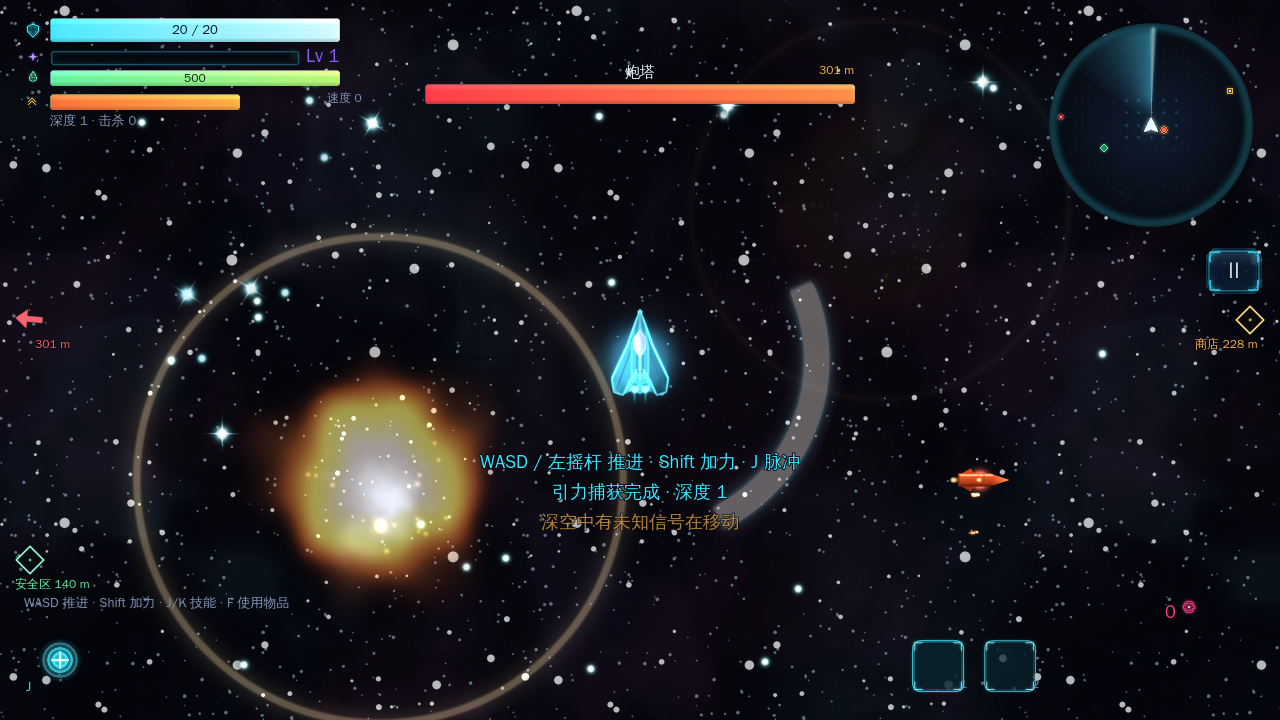
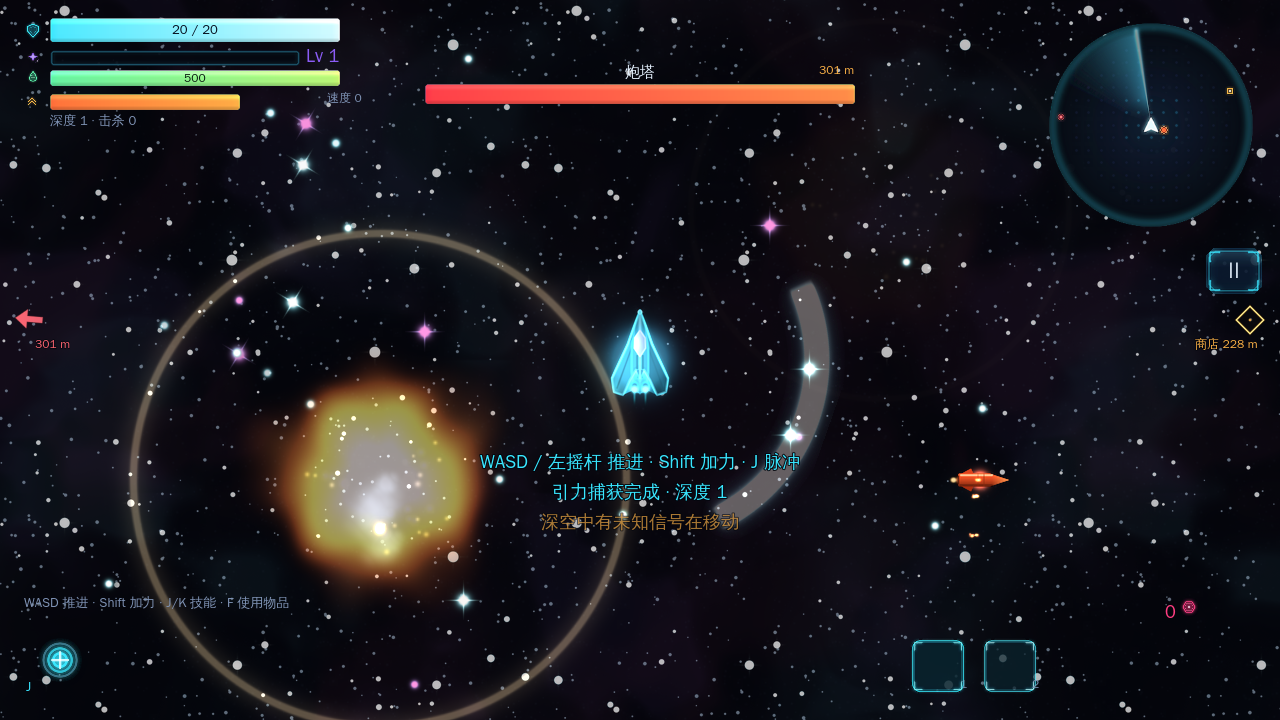
docs(1.0.6): 验证记录、截图与 OpenList 直链

diff --git a/README.md b/README.md
@@ -1,4 +1,4 @@
-# Escape Gravity · 1.0.5 发行版
+# Escape Gravity · 1.0.6 发行版
 
 > 2D 俯视角 · 物理驱动 · 无直接攻击的太空肉鸽
 >
@@ -14,6 +14,14 @@
 - 中文字体：WenQuanYi Zen Hei（随包分发，见许可）
 
 > **仓库状态**：本目录为本地 Git 仓库（`main`，未配置 remote，暂未发布）。`build/`、`dist/`、`keystore/` 与 `.godot/` 不入库；维护、构建与提交约定见 [`AGENTS.md`](AGENTS.md)。
+
+### 1.0.6 更新
+
+- **出生区改为敌对区**：开局不再在出生点旁放安全区，首个攻击者仍在 1900~2400px 的路线首段；击毁首个攻击者后才解锁补给，并跳过出生侧的安全区节点，下一个安全区出现在前进方向。
+- **物质可能被甩飞**：约 16% 的小物质 / 24% 的大物质是“不安定物质”（洋红发光）。玩家进入 190px 吸取圈时，它们会以 520 速度被甩开而不是被吸收，甩飞期间不可拾取，2.4 秒冷却后才能再次尝试。
+- **商店绑定敌人**：每个商店记录创建时的敌人深度。如果玩家没有使用它、并连续击毁该敌人和下一个敌人，旧信标会消失，并在下一个路线商店点自动重新生成，不会永远落在身后。
+- **安全区可能出现引力异常**：约 24% 的安全区是直接以完整 R280 出现的品红色异常区。外圈不再向心牵引，而是把飞船推离；进入圈内会被至少 520 的速度甩飞，且不补燃料、不清导弹、不隐藏威胁。HUD 雷达点同样变为品红色。
+- **空白路径可能生成加速天体**：路线每段仍保证一个天体锚点；其中约 42% 的段会尝试把较小的天体（R140~180）直接放进两个敌人之间的空白路径（横向 ≤160），用于切线环绕加速。若与安全区/商店/敌人/已生成路线天体冲突，则回退到原来的侧方锚点。
 
 ### 1.0.5 更新
 
@@ -57,24 +65,24 @@
 
 | 文件 | 平台 | 大小 | SHA-256 |
 |---|---|---|---|
-| `dist/EscapeGravity-1.0.5-windows-x86_64.zip` | Windows 10/11 x64 | 57.4 MiB | `f7e9d666…ef357f4` |
-| `dist/EscapeGravity-1.0.5-android-arm64.apk` | Android 7.0+ arm64 | 47.3 MiB | `0cc82151…75d1d9` |
-| `dist/EscapeGravity-1.0.5-linux-x86_64.tar.gz` | Linux x64（附带） | 48.1 MiB | `9941b32f…5e8fc6` |
-| `build/windows/EscapeGravity.exe` | 未压缩的 Windows 单文件 | 125.9 MiB | `a59c5154…c91ef5` |
-| `build/android/EscapeGravity.apk` | 未重命名的 Android 包 | 47.3 MiB | `0cc82151…75d1d9` |
+| `dist/EscapeGravity-1.0.6-windows-x86_64.zip` | Windows 10/11 x64 | 57.4 MiB | `699a75bb…c4ba5e8a` |
+| `dist/EscapeGravity-1.0.6-android-arm64.apk` | Android 7.0+ arm64 | 47.3 MiB | `9bf6c6e4…c4ae8a7b` |
+| `dist/EscapeGravity-1.0.6-linux-x86_64.tar.gz` | Linux x64（附带） | 48.2 MiB | `8324d5ef…3988325c` |
+| `build/windows/EscapeGravity.exe` | 未压缩的 Windows 单文件 | 125.9 MiB | `336077a9…6f9563d1` |
+| `build/android/EscapeGravity.apk` | 未重命名的 Android 包 | 47.3 MiB | `9bf6c6e4…c4ae8a7b` |
 | `docs/shots/*.png` | 由**导出包**实际运行的截图 | — | — |
 
 完整校验和：`dist/SHA256SUMS.txt`。
 
-- Android 1.0.5 直链：[EscapeGravity-1.0.5-android-arm64.apk](https://files.thisisxd.top/d/EscapeGravity-1.0.5-android-arm64.apk)
+- Android 1.0.6 直链：[EscapeGravity-1.0.6-android-arm64.apk](https://files.thisisxd.top/d/EscapeGravity-1.0.6-android-arm64.apk)
 
-> 下表是本次 1.0.5 重新构建的交付包，`build/` 与 `dist/` 均来自同一次构建。
+> 下表是本次 1.0.6 重新构建的交付包，`build/` 与 `dist/` 均来自同一次构建。
 
 Windows 包为单文件 exe（内嵌 PCK），解压即玩，无需安装。Android 包已用项目自带密钥签名（v2/v3），可直接侧载安装。
 
 本版不再提供 Web 试玩包；正式交付为 Windows / Android 原生构建。
 
-- Android 包名：`com.escapegravity.game`，versionCode 6，versionName 1.0.5
+- Android 包名：`com.escapegravity.game`，versionCode 7，versionName 1.0.6
 - minSdk 24 / targetSdk 36（Godot 4.7 模板），仅 arm64-v8a
 - Windows 构建未做商业代码签名：首次运行可能出现 SmartScreen 提示，选择“仍要运行”即可
 
@@ -105,8 +113,8 @@ Windows 包为单文件 exe（内嵌 PCK），解压即玩，无需安装。Andr
 1. 星域里潜伏着一台比屏幕还大的**炮塔**。它在进入你的屏幕前不会显示位置，也不会出现在雷达上；你靠近后它开始逼近，同时从屏幕外发射绕弧切入的导弹——导弹的射入方向通常偏向它所在的一侧。导弹锁定你 **5 秒**后脱锁，之后只能直线飞行，而且从出膛到自毁都持续受天体引力影响。
 2. 你打不到炮塔。唯一能伤到它的，是**它自己的导弹**：贴着炮塔绕圈，让导弹的转弯弧线切进外壳；或者用脉冲把导弹沿切线甩进外壳。
 3. 导弹撞上炮塔：**25 点伤害** + 炮塔过载停火 2.5 秒；炮塔血量 50，两发即可摧毁。
-4. 炮塔爆炸后掉落大量**物质**，自动吸收并填经验槽。每 **20 XP** 升一级，三选一强化。
-5. 燃料有限。**安全区**会补满燃料、清除导弹与陨石、屏蔽雷达与威胁指示；它刷新时只是一个比飞船略大的小环，飞到中心才扩张成完整的补给圈。**商店**用代币换道具。地图生成时会沿一条隐藏路线预置它们的位置：安全区在两个敌人之间，商店离路线更远；路线本身不显示给玩家。
+4. 炮塔爆炸后掉落大量**物质**，自动吸收并填经验槽。每 **20 XP** 升一级，三选一强化。部分物质是**不安定物质**（洋红发光）：靠近时会被甩飞而不是吸收，要追上去才能拿到。
+5. 燃料有限，而且**出生点附近没有安全区**——先击毁首个攻击者才会解锁补给。**安全区**会补满燃料、清除导弹与陨石、屏蔽雷达与威胁指示；它刷新时只是一个比飞船略大的小环，飞到中心才扩张成完整的补给圈。少数安全区是**引力异常**：外圈会把你推开，进入圈内会被直接甩飞，而且不补燃料。**商店**用代币换道具；如果跳过商店并连续击毁两个敌人，信标会自动重新定位。地图生成时会沿一条隐藏路线预置它们的位置：安全区在两个敌人之间，商店离路线更远；路线本身不显示给玩家。两个敌人之间的空白路径有时会生成一颗小**加速天体**，可以借它做切线环绕。
 6. 摧毁一个攻击者后进入 **8 秒安全时间**，随后按路线顺序刷新更强的敌人；深度递增。
 
 护盾只有 **20**，而敌方导弹伤害是 **25**：**挨一发就结束**。陨石只磨损 0.5，但你可以把陨石撞飞，让它对敌人造成 5 点伤害。
@@ -152,12 +160,15 @@ Windows 包为单文件 exe（内嵌 PCK），解压即玩，无需安装。Andr
 | 导弹撞敌人：25 伤害 + 过载 2.5s + 停火 | `run.damage_enemy` / `enemy.take_hit` |
 | 导弹入场：视野外垂直进入；视野内从敌人外壳炮口发射 | `enemy._fire_one`；视野内炮塔选最近的三个炮口之一、巢用前向口；视野外保持 820px 侧向进入 |
 | 陨石：10s/颗、R17、110~210 速度、镜头外 900 进入、方向避开炮塔、受天体与飞船引力、0.5 伤害、撞飞后对敌人 5 伤害 | `src/meteor.gd` + `run`；撞飞船不会立刻消失，可继续飞行撞敌人 |
-| 物质：200/星域、吸取 190、小 1 XP / 大 3 XP、每 20 XP 升级 | `src/matter.gd`；初始与补充刷在未探索区，总数上限 280 |
+| 物质：200/星域、吸取 190、小 1 XP / 大 3 XP、每 20 XP 升级；16%/24% 为不安定物质，靠近会被甩飞 | `src/matter.gd`；初始与补充刷在未探索区，总数上限 280；甩飞 0.9s、冷却 2.4s，甩飞期间不可拾取 |
 | 护盾 20 / 敌方导弹 25；陨石 0.5 | `src/ship.gd` + `run.hurt_ship` |
-| 安全区：进入前 R78 → 进入时扩张到 R280、46 px/s² 向心引力、回满燃料/清导弹/清陨石/隐藏雷达与威胁指示、离开后 10s 刷新 | `src/zone.gd` + `run._zone_checks`；进入瞬间触发半径即为 280，扩张动画只影响外观；间距/引力/燃料判定用 `clearance_radius()`；高速进站由辅助装置以 1400 px/s² 刹停，圈内抵消天体引力 |
+| 出生区：没有安全区，首个攻击者就在路线首段；击毁首个攻击者后解锁补给 | `run._initial_spawn` / `_unlock_safe_after_first_kill`；解锁时跳过出生侧的安全区节点，`route.next_safe=1` |
+| 安全区：进入前 R78 → 进入时扩张到 R280、46 px/s² 向心引力、回满燃料/清导弹/清陨石/隐藏雷达与威胁指示、离开后 10s 刷新 | `src/zone.gd` + `run._zone_checks`；进入瞬间触发半径即为 280，扩张动画只影响外观；间距/引力/燃料判定用 `clearance_radius()`；高速进站由辅助装置以 1400 px/s² 刹停，稳定圈内抵消天体引力 |
+| 安全区引力异常：24% 概率、品红视觉、外圈推离、进圈被甩飞、不补燃料/不清弹/不隐藏威胁 | `Zone.unstable` + `run.assist_accel` / `_spring_safe_trap`；雷达点同步变品红；`_check_fuel` 只认稳定安全区 |
 | 安全区刷新在路线预置点 | `RunRoute.safe_at`：每个敌人之间一个；找不到路线时回退 `find_unexplored_point(700, 1875)` |
-| 商店：R280、不回燃料、代币交易 | `run._open_shop` / `buy_offer`；3 件商品，价格按稀有度；位置取路线预置点，离路线比安全区更远 |
-| 燃料耗尽：仍可惯性/引力移动；屏幕内有安全区则被吸入；否则 12s 后结束 | `run._check_fuel` + `assist_accel` |
+| 商店：R280、不回燃料、代币交易；绑定创建时的敌人深度 | `run._open_shop` / `buy_offer`；3 件商品，价格按稀有度；位置取路线预置点，离路线比安全区更远 |
+| 商店自动重定位 | 跳过商店并连续击毁所属敌人和下一个敌人（`depth > shop_bound_depth+1`）时，`_maybe_refresh_shop` 在下一个路线商店点重新生成 |
+| 燃料耗尽：仍可惯性/引力移动；屏幕内有**稳定**安全区则被吸入；否则 12s 后结束 | `run._check_fuel` + `assist_accel`；引力异常不提供燃料保护 |
 | 操作辅助装置：绕天体切线加速、商店/安全区停靠、燃料 0.4/s、不改变朝向 | `run.assist_accel`；环绕加速在 600 速度处淡出，安全区反推上限 1400 px/s² |
 | 碰撞：玩家不能进入天体/敌人、被弹飞、按速度 3~7 护盾磨损 | `ship.bounce_from` + `run`；0.35s 受击无敌帧避免连续扣血 |
 | 物品栏：基础 2、最多 5、满了要销毁一件 | `run.add_item` / `destroy_and_take` + HUD 销毁面板 |
@@ -168,7 +179,7 @@ Windows 包为单文件 exe（内嵌 PCK），解压即玩，无需安装。Andr
 | 敌人血条顶部中间；发现后显示（含视野外距离）；方位箭头贴屏幕边（20px） | `ui`：血条、方位箭头、距离 |
 | 菜单 / 暂停 / 设置 / 玩法说明 / 结算 | `src/menu.gd` + `src/ui.gd` |
 | 无限地图、程序化星系数、行星不是孤立生成 | `src/galaxy.gd`：7800px 星系统 + 2048px 区块，避免重叠，区块流式加载 |
-| 地图生成：星系 → 物质 → 隐藏路线 → 商店/安全区/敌人 | `src/route.gd` 预生成路线与节点；`galaxy._generate_chunk` 在每段路线旁补天体；路线不创建任何可见节点 |
+| 地图生成：星系 → 物质 → 隐藏路线 → 商店/安全区/敌人 | `src/route.gd` 预生成路线与节点；`galaxy._generate_chunk` 为该区块的路线段补天体；42% 的段尝试把天体放进两个敌人之间的空白路径（R140~180、横向 ≤160），冲突时回退侧方锚点；路线不创建任何可见节点 |
 | 敌人按路线顺序刷新、被击败后显示安全倒计时再刷新 | `RunRoute.enemy_at` + `run.safe_timer`；两个敌人位置之间必有安全区 |
 | UI 布局：左上护盾/经验/燃料、右上雷达、顶部中敌人血条、右下物品栏、左下技能 | 与概念图一致；含移动端重排 |
 
@@ -183,6 +194,8 @@ Windows 包为单文件 exe（内嵌 PCK），解压即玩，无需安装。Andr
 | 引力影响半径 | 3.0 × R | 过载时长 | 2.5s |
 | 陨石间隔 / 伤害 / 半径 | 10s / 0.5 / 17 | 炮塔移动（外/内） | 240 / 18 |
 | 吸取半径 / XP | 190 / 20 每级 | 安全区（进入前→扩张）/ 牵引 | 78 → 280 / 46 |
+| 不安定物质概率 / 甩飞 / 冷却 | 16%（大 24%）/ 520 · 0.9s / 2.4s | 引力异常安全区 / 甩飞 | 24% / 520 · 10s 重排 |
+| 商店绑定 / 自动重定位 | 创建时深度 / 跨过所属敌人 +1 | 空白路径天体 | 42% · R140~180 · 横向 ≤160 |
 | 脉冲：冷却 / 燃料 / 半径 / 冲量 / 偏转 | 5s / 10 / 300 / 200 / ±15° | 巢：半径 / 血量 / 齐射 | 300 / 40 / 3 |
 
 ---
@@ -231,7 +244,7 @@ escape-gravity-release/
 │   ├── meteor.gd / matter.gd / zone.gd / decoy.gd / anchor.gd / fx.gd
 │   ├── assets.gd / audio.gd / store.gd / controls.gd
 │   ├── backdrop.gd           # 视差星云/星点
-│   └── selftest.gd           # 125 项无头断言 + 机器人可玩性验证
+│   └── selftest.gd           # 141 项无头断言 + 机器人可玩性验证
 ├── assets/                   # world / ui / audio / fonts
 ├── tools/                    # 素材生成、后期、构建、打包
 ├── docs/                     # ART.md / DESIGN_MAP.md / QA.md / 资产清单 / 截图
@@ -251,18 +264,18 @@ escape-gravity-release/
 
 ## 5. 验证
 
-### 5.1 无头断言（125/125 通过）
+### 5.1 无头断言（141/141 通过）
 
 ```bash
 godot --headless --path . -- --selftest
-# RESULT: 125 checks, 0 failed
+# RESULT: 141 checks, 0 failed
 ```
 
 覆盖：太空无阻力与惯性保持 / 引擎极速 150、加力 3× 与 192、外部上限 720 / 燃料按实际 Δv（滑行免费，到极速后按住推进不耗油）/ 加力槽 6.6s 与推进中回充 / 引力 285·395·3R 截止 /
 辅助装置平衡恒星引力 / 锁定中的导弹仍受引力弯折 /
-导弹 150·0.525·5s 脱锁 / 命中 25 与过载 / 陨石 0.5 与撞飞 5 / 物质 190 与 1·3 XP / 20 XP 升级 /
-安全区 78→280 扩张·补满·清弹·隐藏·10s 刷新 / 商店 3 件且不回燃料 / 物品栏 2→5 与满栏销毁 / 脉冲 10 燃料·200 冲量·5s CD·按移动方向左右偏转 /
-诱饵抵达脱锁 / 干扰弹偏转 / 燃料 12s 判负 / 复活币 / 路线不回头·商店更远·每段有天体·两个敌人间有安全区·安全区离敌人≥1150 /
+导弹 150·0.525·5s 脱锁 / 命中 25 与过载 / 陨石 0.5 与撞飞 5 / 物质 190 与 1·3 XP / 不安定物质甩飞与冷却 / 20 XP 升级 /
+安全区 78→280 扩张·补满·清弹·隐藏·10s 刷新 / 引力异常推离·甩飞·不提供燃料保护 / 商店 3 件且不回燃料·跳过两级后自动重定位 / 出生区无安全区·首杀解锁并跳过出生侧节点 / 物品栏 2→5 与满栏销毁 / 脉冲 10 燃料·200 冲量·5s CD·按移动方向左右偏转 /
+诱饵抵达脱锁 / 干扰弹偏转 / 燃料 12s 判负 / 复活币 / 路线不回头·商店更远·每段有天体·两个敌人间有安全区·安全区离敌人≥1150 / 空白路径加速天体数量与间距 /
 敌人未发现时不可见、仇恨范围外不开火、靠近后逼近 / 未发现时仍开火且导弹从屏幕外弧线切入·方向偏向敌人·单独上限 2 / 进屏即发现并淡入 /
 起始区域按路线落位 / 敌人按路线顺序刷新 / 120000px 外仍有天体 / 初始燃料 500。
 
@@ -281,11 +294,11 @@ godot --headless --path . -- --selftest
 
 ### 5.3 导出包验证
 
-> 本次 1.0.5 重新导出了 Linux / Windows / Android 包并重打了 `dist/`，下方验证均针对这批产物。
+> 本次 1.0.6 重新导出了 Linux / Windows / Android 包并重打了 `dist/`，下方验证均针对这批产物。
 
 - Linux 导出包在 `Xvfb + llvmpipe` 下真实运行并重新生成全部 11 张截图（不是编辑器截图），中文字体、脚本、贴图、音频均从 PCK 加载。
 - Windows 产物：`PE32+ executable (GUI), x86-64`，尾部 `GDPC` 内嵌包标记，单文件无外部依赖。
-- Android：`apksigner verify` 通过（v2 + v3 签名）；`aapt2 dump badging` 显示 `com.escapegravity.game`、1.0.5（versionCode 6）、
+- Android：`apksigner verify` 通过（v2 + v3 签名）；`aapt2 dump badging` 显示 `com.escapegravity.game`、1.0.6（versionCode 7）、
   minSdk 24、targetSdk 36、`native-code: arm64-v8a`、landscape、无危险权限；APK 内含全部贴图/字体/音频/脚本。
 
 ### 5.4 界面
@@ -318,6 +331,7 @@ godot --headless --path . -- --selftest
 9. **美术/音频为占位素材**：这是你要求的“先用几何图形”；但已按可替换资产管线实现，后续换图不需要改逻辑。
 10. **Android 仅 arm64**，且没有真机实测（本机无 Android 设备；APK 已做静态与签名验证，Linux 导出包做了真实运行验证）。
 11. 安全区/商店刷新距离、商店重开时间（26s）等文档未给定的细节由本实现确定，见 `DESIGN_MAP.md`。
+12. 1.0.6 的随机危险是发行版扩展：不安定物质（16%/24%）、引力异常安全区（24%）、空白路径加速天体（42% 尝试）与商店随战线重定位；数值集中在 `src/consts.gd` / `src/route.gd`，并有不变量与自测覆盖。
 
 ---
 

diff --git a/docs/DESIGN_MAP.md b/docs/DESIGN_MAP.md
@@ -13,7 +13,7 @@
 | 进入区域 → 攻击者出现 → 追踪导弹 → 诱导撞击 → 过载 → 掉落物质 | `spawn_enemy` → `enemy.step` → `missile.step` → `_resolve_collisions` → `damage_enemy` → `kill_enemy` → `scatter_matter_at` |
 | 逐步深入更高威胁星域 | `depth += 1`（每次摧毁攻击者）；血量 `×(1+0.22(depth-1))`、射速 `×max(0.62, 1-0.035(depth-1))`、速度 `×(1+0.02(depth-1))`；每 5 层精英 ×1.6 |
 
-攻击者出生点来自隐藏路线：首个敌人在 1900~2400，之后每段 2100~2700；未被玩家看见前它是隐形的，不显示贴图、不进雷达/方位/血条；玩家进入 2100px 后它以 1.5× 速度逼近，外壳进入屏幕的同一帧才算 `discovered`。未发现的敌人仍会开火：导弹在屏幕边缘外 180~320px 生成，以切线初速绕弧切入，射入方向 72% 落在敌人方位 ±57° 内，其余全随机；这类偷袭弹单独上限 2 枚，不占正常 3 枚直射名额。安全区、商店与敌人都按同一条路线预生成，因此 HUD 方位标记天然沿行进方向排列；路线本身不渲染。安全区预置在相邻两段敌人的中点（首段落在路线前段），横向偏移 470~600px，圆心离两侧敌人预置点 ≥1150px，保证安全区完整半径（280）与炮塔外壳（420）之间至少 450px；安全区出生时贴图只有 R78，玩家到中心才扩张，但间距校验始终使用 `clearance_radius()`（完整 280），刷新时还会按 520px 的贴图间距避开正在交战的敌人。
+攻击者出生点来自隐藏路线：首个敌人在 1900~2400，之后每段 2100~2700；未被玩家看见前它是隐形的，不显示贴图、不进雷达/方位/血条；玩家进入 2100px 后它以 1.5× 速度逼近，外壳进入屏幕的同一帧才算 `discovered`。未发现的敌人仍会开火：导弹在屏幕边缘外 180~320px 生成，以切线初速绕弧切入，射入方向 72% 落在敌人方位 ±57° 内，其余全随机；这类偷袭弹单独上限 2 枚，不占正常 3 枚直射名额。安全区、商店与敌人都按同一条路线预生成，因此 HUD 方位标记天然沿行进方向排列；路线本身不渲染。**出生点没有安全区**：开局只有敌人，击毁首个攻击者后 `safe_unlocked` 才变为 true，并跳过出生侧的安全区节点；路线每段仍保证一个天体锚点，其中一部分会直接落在两个敌人之间的空白路径上。安全区预置在相邻两段敌人的中点（首段落在路线前段），横向偏移 470~600px，圆心离两侧敌人预置点 ≥1150px，保证安全区完整半径（280）与炮塔外壳（420）之间至少 450px；稳定安全区出生时贴图只有 R78，玩家到中心才扩张；引力异常则直接以完整 R280 的品红圈出现（详见 §8）。间距校验始终使用 `clearance_radius()`（完整 280），刷新时还会按 520px 的贴图间距避开正在交战的敌人。
 
 ## 2. 操作与物理
 
@@ -66,6 +66,7 @@
 |---|---|---|
 | 每星域物质 | 200 | 初始 150（按簇分布）+ 每 2s 检查飞船周边 3400px 内数量，不足 130 时在 350~3000px 补 30，上限 280；摧毁敌人额外 42 |
 | 吸取半径 | 190 | `run.absorb_radius=190`；距离越近吸力越强，24px 内拾取 |
+| 不安定物质 | 文档未给；扩展 | `MATTER_VOLATILE_CHANCE=0.16`（大物质 0.24）的标记为 `volatile`；进入 190 圈时不再被吸，而是以 520 速度甩开 0.9s、冷却 2.4s，甩飞期间不可拾取；视觉洋红发光，首次触发有提示 |
 | XP | 小 1 / 大 3 | `MATTER_SMALL_XP/ BIG_XP`；大物质概率 1/3 |
 | 升级曲线 | 固定每 20 XP | `XP_PER_LEVEL=20`；可连续升级，逐次弹卡 |
 | 升级池 | 修复 25%/100%、燃料 25%、上限 +10/+20、物品栏、代币 1/2/3、加力槽 +10%、加力推力 +7%、获得道具、技能 | `Defs.roll_upgrades` 带权抽取，按条件剔除（如 5 格后不再出物品栏卡、技能满后不再出新技能） |
@@ -96,19 +97,22 @@
 
 | 项 | 文档 | 实现 |
 |---|---|---|
-| 安全区半径/牵引 | 280 / 46 px/s² | `zone.gd`：出生时触发半径 `ZONE_ENTRY_RADIUS=78`（只比飞船略大），玩家到中心时 `set_entered` 同一帧把 `radius` 设为 280，并用 0.62s 的 BACK 缓动 + 冲击波贴图播放扩张；无输入时向心牵引（不再限燃料 0）；进入后 `gravity_ship_at` 返回零，避免 3R 天体引力把握停的飞船拖出去 |
+| 安全区半径/牵引 | 280 / 46 px/s² | `zone.gd`：出生时触发半径 `ZONE_ENTRY_RADIUS=78`（只比飞船略大），玩家到中心时 `set_entered` 同一帧把 `radius` 设为 280，并用 0.62s 的 BACK 缓动 + 冲击波贴图播放扩张；无输入时向心牵引（不再限燃料 0）；**稳定**安全区内 `gravity_ship_at` 返回零，避免 3R 天体引力把握停的飞船拖出去 |
+| 出生区 | 文档未给；扩展 | `_initial_spawn` 不生成安全区，`safe_unlocked=false`；击毁首个攻击者后 `_unlock_safe_after_first_kill` 解锁并把 `route.next_safe=1`，跳过出生侧节点 |
+| 安全区引力异常 | 文档未给；扩展 | `ZONE_UNSTABLE_CHANCE=0.24`；`Zone.unstable=true` 时直接以完整 R280 出现，贴图/雷达点变品红，外圈 `assist_accel` 以 300 推离，进入圈内 `_spring_safe_trap` 以 ≥520 速度甩飞；不补燃料、不清导弹、不隐藏威胁；`_check_fuel` 不把它当安全区 |
 | 进入 | 圈 → 展开、回满燃料、导弹/陨石消失、敌人停火退出、屏蔽信息 | `_enter_safe`；扩张瞬间即视为进入，玩家不会在动画期间飞出去；敌人间距与燃料判定用 `clearance_radius()`（完整 280） |
 | 离开 | 消失，10s 后刷新下一个 | `_leave_safe`；`safe_respawn_timer=10` |
 | 刷新位置 | 路线预置点；每个敌人之间一个；刷新带 ≈1875px（约 12.5s 满推力预算） | `RunRoute.safe_at`（首段 0.35、之后 0.50；侧偏 470~600px）；路线缺失时才回退 `find_unexplored_point(700,1875)` |
-| 商店 | R280、不回燃料、代币交易；离路线比安全区更远 | `RunRoute.shop_at`（段内 0.72、侧偏 1200~1600px）；3 件商品，按稀有度 2~5 代币；离开后 26s 刷新 |
-| 燃料耗尽 | 仍可惯性/引力；屏幕内有安全区被吸入；否则结束 | `_check_fuel`：无安全区在屏内且无燃料道具时 12s 结束；`assist_accel` 把无动力飞船拉向安全区 |
+| 商店 | R280、不回燃料、代币交易；离路线比安全区更远 | `RunRoute.shop_at`（段内 0.72、侧偏 1200~1600px）；3 件商品，按稀有度 2~5 代币；离开后 26s 刷新；创建时记录 `shop_bound_depth` |
+| 商店自动重定位 | 文档未给；扩展 | 如果未使用商店且 `depth > shop_bound_depth + 1`（击毁所属敌人和下一个敌人），`_maybe_refresh_shop` 移除旧信标并在下一个路线商店点重新生成 |
+| 燃料耗尽 | 仍可惯性/引力；屏幕内有**稳定**安全区被吸入；否则结束 | `_check_fuel`：无稳定安全区在屏内且无燃料道具时 12s 结束；`assist_accel` 把无动力飞船拉向稳定安全区；异常区不提供保护 |
 
 ## 9. 操作辅助装置
 
 | 文档 | 实现 |
 |---|---|
 | 引导不撞天体（不含导弹/陨石）；进入绕天体匀速圆周；玩家有远离输入立即退出 | `run.assist_accel`：距表面 <320 且内向速度 >45、且输入不朝外时，施加切向 `SHIP_ORBIT_ACCEL=230 × (1-speed/600)`；不改变 facing；离开引力圈后速度保留 |
-| 引导在商店/安全区停靠 | 在安全区内自动反推，上限 `SHIP_SAFE_BRAKE=1400 px/s²`，600~720 速度进入也能停在 R280 内；只有推进方向明确指向圈外时才放手；进圈后抵消天体引力 |
+| 引导在商店/安全区停靠 | 在**稳定**安全区内自动反推，上限 `SHIP_SAFE_BRAKE=1400 px/s²`，600~720 速度进入也能停在 R280 内；只有推进方向明确指向圈外时才放手；进圈后抵消天体引力。引力异常安全区相反：外圈 `ZONE_UNSTABLE_PUSH=300` 推离，越靠近越强 |
 | 不改变飞船朝向 | 辅助只加加速度，不写 `ship.facing` |
 | 辅助指令燃料 10% | `_assist_fuel`：0.4/s（正常推进 4/s 的 10%） |
 | 辅助操作装置自动平衡恒星引力 | `gravity_ship_at` 对恒星只在 1.12R 内生效；导弹没有辅助装置，始终受全量引力 |
@@ -120,7 +124,7 @@
 | 无限地图、算法生成星系、行星非孤立 | 7800px 星系统 + 2048px 区块补行星；加载半径 3 区块、每个空区块保底 1 颗天体；视差背景按相机锚定，任意坐标不消失 |
 | 地图生成顺序：星系 → 物质 → 路线 → 区域/敌人落位 | `galaxy.start` 铺星系与区块；`run._initial_spawn` 填物质；`RunRoute` 预生成路线与节点；安全区/商店/敌人按序取点 |
 | 隐藏行进路线 | `src/route.gd`：初始 12 个遭遇点、滚动预生成；每段最多转 31.5° 且必须沿主方向前进；不创建任何可见节点 |
-| 每段路线经过天体 | `route.gd` 在段中点旁 380~480px 放天体锚点；`galaxy._generate_chunk` 在该区块补一颗半径 260~340 的行星（尽量在 3R 引力圈内） |
+| 每段路线经过天体 | `route.gd` 每段保证一个天体锚点：42% 概率尝试放在两个敌人之间的空白路径（`PATH_BODY_T=0.56~0.78`、横向 ≤160、R140~180），否则回退到段中点旁 380~480px 的侧方锚点（R260~340）；`galaxy._generate_chunk` 在该区块补出对应行星（尽量在 3R 引力圈内） |
 | 两个敌人之间必有安全区 | 每个 encounter 的 `safe` 落在上一敌人→本敌人的 0.50 处（首段 0.35）、侧偏 470~600px；刷新时再按完整 R280、敌人外壳与天体间距推开 |
 | 商店比安全区更远 | 商店落在段内 0.72、侧偏 1200~1600px；相对玩家与相对路线的距离都大于同段安全区 |
 | 恒星引力仅贴近生效 | 对飞船 1.12R；导弹/陨石全量 |
@@ -153,6 +157,11 @@
 | 导弹巢 | R300 / HP40 / 3 发齐射 / 上限 4，与炮塔按 `depth%3==2` 交替 | 提供第二种非小型敌人，改变齐射节奏 |
 | 精英 | 每 5 层，血量 ×1.6、齐射 +1 | 深度推进的可见威胁升级 |
 | 商店重开 | 离开后 26s 取路线上的下一个商店点 | 文档只给初始距离；路线保证商店比安全区更远，形成可持续经济 |
+| 商店绑定战线 | 未使用的商店在跨过所属敌人 + 下一个敌人后自动重定位 | 玩家高速推进时不会把商店永远落在身后；使用过的商店仍按 26s 计时 |
+| 出生区敌对 | 初始不生成安全区，首杀才解锁 | 让开局直接进入“敌人—导弹—诱导”的核心循环，而不是先给一个安全屋 |
+| 不安定物质 | 16%/24% 物质在靠近时甩飞 | 给自动吸取加入一个小风险/追逐点，但不改变 XP 总量与升级曲线 |
+| 引力异常安全区 | 24% 安全区变成推离/甩飞的陷阱 | 让“安全区”也有引力风险，与游戏主题一致；品红视觉与雷达点保证可读 |
+| 空白路径天体 | 42% 尝试把该段锚点放进两个敌人之间的空白路径 | 让玩家在赶路时有可用的切线加速天体；冲突时仍回退到侧方锚点，保证每段有天体 |
 | 安全区牵引 | 无输入即生效，不限于燃料 0 | 文档“无动力时会把玩家吸进去”；燃料 0 时也成立 |
 | 燃料耗尽倒计时 | 12s | 文档只说“判定结束”，未给时间；给玩家漂移/抓安全区的机会 |
 | 一局上限 | 无（无限深度） | 肉鸽循环；记录最佳深度 |
@@ -164,9 +173,9 @@
 | 系统 | 文件 | 关键函数 |
 |---|---|---|
 | 应用状态 / 过场 / 截图 | `main.gd` | `start_run` / `show_menu` / `toggle_pause` / `_run_shots` |
-| 单局 | `run.gd` | `simulate` / `spawn_enemy` / `_resolve_collisions` / `_zone_checks` / `cast_skill` / `choose_upgrade` |
+| 单局 | `run.gd` | `simulate` / `spawn_enemy` / `_resolve_collisions` / `_zone_checks` / `_unlock_safe_after_first_kill` / `_spring_safe_trap` / `_maybe_refresh_shop` / `cast_skill` / `choose_upgrade` |
 | 星系 | `galaxy.gd` | `ensure_around` / `gravity_at` / `find_unexplored_point` / `mark_view` |
-| 隐藏路线 | `route.gd` | `ensure_ahead` / `enemy_at` / `safe_at` / `shop_at` / `body_anchors_in_chunk` |
+| 隐藏路线 | `route.gd` | `ensure_ahead` / `enemy_at` / `safe_at` / `shop_at` / `_make_route_body` / `body_anchors_in_chunk` |
 | 天体 | `gravity_body.gd` | `gravity_at` / `surface_gravity` |
 | 飞船 | `ship.gd` | `step` / `dash` / `take_damage` / `bounce_from` |
 | 导弹 | `missile.gd` | `step` / `unlock` / `retarget_to` |

diff --git a/AGENTS.md b/AGENTS.md
@@ -6,7 +6,7 @@
 
 《Escape Gravity》是一款 2D 俯视角、物理驱动、**没有直接攻击**的太空肉鸽。玩家只能推进、加力、释放技能，靠诱导敌人自己的追踪导弹撞上敌人来造成伤害。
 
-- 当前版本：**1.0.5**
+- 当前版本：**1.0.6**
 - 引擎：**Godot 4.7.2 stable**，GL Compatibility 渲染器
 - 逻辑分辨率：**1280×720**，`canvas_items` 拉伸 + `expand` 适配宽屏/刘海屏
 - 目标平台：**Windows x86_64**、**Android arm64-v8a（横屏）**
@@ -88,18 +88,23 @@ escape-gravity-release/
 
 ## 关键玩法不变量
 
-这些行为是 1.0.5 物理/生成修复后的基线，别无意改回去：
+这些行为是 1.0.6 物理/生成修复后的基线，别无意改回去：
 
 - **导弹入场**：敌人在视野内时，从炮塔最近的三炮口之一 / 导弹巢前向口、`R+14` 处出膛；被发现的敌人在视野外仍按设计文档从玩家侧向 **820px** 进入。锁定期导弹不与来源敌人碰撞，避免刚出膛自爆。
 - **导弹引力**：锁定中与脱锁后都持续受天体引力（`MISSILE_GRAVITY_SCALE=0.6`）；引力强于转向能力时会把导弹拉离拦截线。只有玩家的辅助装置会平衡恒星引力，别把导弹也豁免。
 - **敌人刷新与发现**：按 `RunRoute` 预生成顺序取点（首段 1900~2400，之后 2100~2700）；两个敌人位置之间必有一个安全区，商店比安全区离路线更远。路线只用于布局、不渲染；不要改回随机方向刷新。敌人未进入玩家屏幕前不可见、不进雷达/方位/血条；玩家进入 `ENEMY_AGGRO_RANGE=2100` 后以 `1.5×` 速度逼近，贴图进入屏幕的同一帧才算 `discovered`。
 - **未发现也会开火**：`enemy._fire_hidden` 在屏幕边缘外 180~320px 生成偷袭弹，切线初速让它绕弧切入；72% 的方向落在敌人方位 ±57° 内，其余全随机。偷袭弹 `sneak=true`，单独上限 `ENEMY_HIDDEN_MAX=2`，且**不占**正常 3 枚直射名额。别用 `locked_missile_count()` 把它们算进去，否则会挤掉正面齐射、破坏诱导循环。
-- **安全区与敌人保持间距**：安全区预置在相邻两段敌人的中点（`SAFE_T=0.50`，首段 `SAFE_FIRST_T=0.35`），横向偏移 470~600，圆心离两侧敌人预置点 ≥1150；刷新时 `_clear_zone_of_enemies` 会按 `ZONE_ENEMY_CLEAR=520` 推开正在交战的敌人，敌人刷新校验同一间距。别再把安全区挪回贴着上一场战斗的位置。安全区出生时只有 `ZONE_ENTRY_RADIUS=78`，但所有间距/引力/燃料判定都用 `clearance_radius()`（恒为完整 280）；玩家到中心才扩张，扩张同一帧把 `radius` 设为 280，动画只影响外观。安全区内 `gravity_ship_at` 返回零（station-keeping），否则 3R 引力圈会把握停的飞船拖出去。
+- **出生区是敌对区**：`_initial_spawn` 不再生成安全区，`safe_unlocked=false`；击毁首个攻击者后 `_unlock_safe_after_first_kill` 才解锁，并把 `route.next_safe` 直接推到 1，跳过出生点旁的安全区节点。别把初始安全区加回来，也别在未解锁时让 `_update_spawns` 刷新安全区。
+- **安全区与敌人保持间距**：安全区预置在相邻两段敌人的中点（`SAFE_T=0.50`，首段 `SAFE_FIRST_T=0.35`），横向偏移 470~600，圆心离两侧敌人预置点 ≥1150；刷新时 `_clear_zone_of_enemies` 会按 `ZONE_ENEMY_CLEAR=520` 推开正在交战的敌人，敌人刷新校验同一间距。别再把安全区挪回贴着上一场战斗的位置。安全区出生时只有 `ZONE_ENTRY_RADIUS=78`，但所有间距/引力/燃料判定都用 `clearance_radius()`（恒为完整 280）；玩家到中心才扩张，扩张同一帧把 `radius` 设为 280，动画只影响外观。只有**稳定**安全区内 `gravity_ship_at` 返回零（station-keeping），否则 3R 引力圈会把握停的飞船拖出去。
+- **安全区可能是引力异常**：`ZONE_UNSTABLE_CHANCE=0.24`，异常区直接以完整 R280 出现，贴图与雷达点为品红；外圈 `assist_accel` 用 `ZONE_UNSTABLE_PUSH=300` 推开飞船，进入圈内触发 `_spring_safe_trap`，以不低于 `ZONE_TRAP_IMPULSE=520` 的速度甩飞，并且**不**补燃料、不清导弹、不隐藏威胁。`_check_fuel` 只把稳定安全区当作燃料保护。别把异常区当普通安全区处理。
+- **物质可能被甩飞**：`MATTER_VOLATILE_CHANCE=0.16`（大物质 0.24）的标记为 `volatile`；玩家进入 190 吸取圈时 `Matter._fling_away` 以 520 速度、600 减速度甩开 0.9s，冷却 2.4s，甩飞期间不可拾取。视觉上用洋红发光区分；不要把它改回无条件吸收。
+- **商店绑定敌人深度**：创建商店时记录 `shop_bound_depth=depth`。如果玩家没有使用商店、并且击毁了所属敌人和下一个敌人（`depth > shop_bound_depth + 1`），`_maybe_refresh_shop` 会移除旧信标并在下一个路线商店点重新生成；使用商店离开后仍按 `SHOP_RESPAWN=26` 计时。别让被跳过的商店永远留在身后。
+- **空白路径可能藏加速天体**：`RunRoute._make_route_body` 有 42% 概率尝试把该段的天体锚点放进两个敌人之间的空白路径（`PATH_BODY_T=0.56~0.78`、横向 ≤160、半径 140~180），只有避开安全区/商店/两侧敌人/已生成路线天体时才接受，否则回退到原侧方锚点（`BODY_T=0.50`、偏移 380~480）。每段仍保证有一个天体锚点。
 - **无限地图**：`Backdrop._process` 必须用相机中心 `c` 锚定图层；删掉 `c` 项会导致离开初始区块后背景消失。`Galaxy.LOAD_RADIUS=3`、`MAX_BODIES=90`，空区块保底一颗天体；`Galaxy._generate_chunk` 会为落在该区块的路线段补一颗行星；物质每 2 秒按飞船周边 3400px 数量补充，5200px 外回收。
 - **触屏右侧控制列**：底部加力 150px → 其上技能 92×2 → 再上物品栏 → 物品提示；代币读数在雷达下方。方位标记重叠时沿屏幕边缘错开。
 - **真惯性**：太空无阻力（`SHIP_DRAG=0`），松开推进保持速度；`SHIP_MAX_SPEED=150` 只是引擎可加速到的上限，超过后推进只用于转向/减速，不能把惯性压回；外部速度安全上限 `SHIP_SPEED_HARD=720`。别把全局硬上限加回 150。
 - **燃料按实际 Δv**：`ship.step` 只按本帧真正改变的速度量扣油；到极速后按住推进不耗油，滑行免费。加力槽同理，只有实际加速才消耗。
-- **环绕加速**：`BODY_GRAVITY_RANGE=3`（原 2）；`assist_accel` 在贴体 320px 内沿切线加速，速度 600 处淡出；离开引力圈后速度保留。安全区停靠反推上限 `SHIP_SAFE_BRAKE=1400`，以 600~720 进站要能在 R280 内停住；只有明确朝圈外推进时才放手。
+- **环绕加速**：`BODY_GRAVITY_RANGE=3`（原 2）；`assist_accel` 在贴体 320px 内沿切线加速，速度 600 处淡出；离开引力圈后速度保留。稳定安全区停靠反推上限 `SHIP_SAFE_BRAKE=1400`，以 600~720 进站要能在 R280 内停住；只有明确朝圈外推进时才放手。
 - **天体与内容双向避让**：新天体落点用 `Galaxy.body_fits()` 检查已加载天体、当前飞船、安全区/商店/敌人和**全部路线预置节点**；安全区/商店/敌人刷新用 `_clear_body_point()` 的 18 圈 × 24 方向环形搜索，安全区按完整 R280、敌人按外壳、天体按表面 + `BODY_CONTENT_MARGIN=160` 留白。别再把 `_clear_body_point` 的 clearance 传成 90/120。
 - **平衡**：初始燃料 **500**；推进 4/s、加力 **4.8/s（1.2×）**（均按实际 Δv），3× 推力，引擎极速 150 / 加力 192，初始槽 **6.6s**；护盾 20。
 - **状态机**：`PLAYING / LEVELUP / SHOP / DESTROY / DEAD`；暂停由 `main.gd` 控制，`run.paused` 冻结模拟。
@@ -145,7 +150,7 @@ python3 tools/make_dist.py
 
 改动运行逻辑后，至少完成：
 
-1. `RESULT: 125 checks, 0 failed`；导出包内再跑一次 `./build/linux/EscapeGravity.x86_64 --headless -- --selftest`。
+1. `RESULT: 141 checks, 0 failed`；导出包内再跑一次 `./build/linux/EscapeGravity.x86_64 --headless -- --selftest`。
 2. 用导出包重新生成截图；桌面 11 张 + 移动端 20:9 一张，检查标题居中、触屏按钮不重叠。
 3. 无运行时绘制审计（应只有 `RenderingServer.frame_post_draw` 一条命中）：
    ```bash
@@ -171,7 +176,7 @@ python3 tools/make_dist.py
 - 提交信息用中文或英文均可，建议 `type(scope): subject`，例如：
   - `fix(mobile): 技能键移到右侧并放大`
   - `fix(world): 背景改为相机锚定`
-  - `docs: 更新 1.0.5 验证记录`
+  - `docs: 更新 1.0.6 验证记录`
 - 一个提交只做一类改动；不要把一个功能、格式化、文档混在一起。
 - 提交前检查：
   ```bash

diff --git a/docs/QA.md b/docs/QA.md
@@ -1,6 +1,6 @@
 # QA / 验证记录
 
-日期：2026-11-04 · 版本：1.0.5 · 引擎：Godot 4.7.2 stable
+日期：2026-11-04 · 版本：1.0.6 · 引擎：Godot 4.7.2 stable
 环境：Linux x86_64 · Godot headless + Xvfb/llvmpipe · JDK 17 (Temurin 17.0.21) · Android SDK build-tools 35 / platform 35
 
 ---
@@ -11,17 +11,17 @@
 godot --headless --path . -- --selftest
 ```
 
-完整输出：`docs/selftest_output.txt`（125 项断言 + 机器人明细）。
+完整输出：`docs/selftest_output.txt`（141 项断言 + 机器人明细）。
 
 ```
-RESULT: 125 checks, 0 failed
+RESULT: 141 checks, 0 failed
 ```
 
 **导出包内自测**（同一套脚本，从内嵌 PCK 运行）：
 
 ```bash
 ./build/linux/EscapeGravity.x86_64 --headless -- --selftest
-# RESULT: 125 checks, 0 failed
+# RESULT: 141 checks, 0 failed
 ```
 
 覆盖面：
@@ -32,13 +32,15 @@ RESULT: 125 checks, 0 failed
 - 引力：表面 285、内圈 395、3R 截止、辅助操作装置平衡恒星引力、锁定中的导弹仍受引力弯折（0.6×）
 - 导弹：速度/转向率/5s 脱锁/半径、命中 25、过载 2.5s、两发摧毁 50 血炮塔
 - 陨石：0.5 磨损、撞飞后对敌 5、受飞船引力
-- 物质：大 3 XP、超 190 不吸、150 内被吸、20 XP/级
-- 区域：安全区进入前 R78、扩张瞬间 R280（贴图仍在缩小状态）、补满/清弹/隐藏/离开 10s 刷新；商店 3 件且不回燃料
+- 物质：大 3 XP、超 190 不吸、150 内被吸、不安定物质靠近被甩飞且进入冷却、20 XP/级
+- 区域：安全区进入前 R78、扩张瞬间 R280（贴图仍在缩小状态）、补满/清弹/隐藏/离开 10s 刷新；引力异常安全区外圈推离、进圈甩飞、不算燃料保护；商店 3 件且不回燃料
+- 出生区：开局无安全区、首个敌人已生成；击毁首个敌人后解锁并跳过出生侧安全区节点
+- 商店绑定：所属敌人被击败后不立即刷新；连续击毁下一个敌人后自动重定位并绑定新深度
 - 发现：敌人未进屏前不可见、不进雷达/方位/血条、仇恨范围外不开火；玩家进入 2100px 后主动逼近并持续开火；未发现时导弹从屏幕外生成、以切线弧线切入、方向 72% 偏向敌人 ±57°，偷袭弹单独上限 2 且不占直射名额；进屏同一帧 `discovered` 并淡入
 - 物品/升级：2 格、满栏销毁、5 格上限后无栏位卡、技能满后无新技能卡
 - 技能：脉冲 10 燃料 / 200 冲量 / 脱锁 / 5s CD / 按移动方向左右偏转（静止按面向）；诱饵抵达脱锁；干扰弹偏转
 - 死亡：燃料耗尽 12s 判负、导弹 25 击穿 20 护盾、复活币恢复 8
-- 地图：隐藏路线不回头（每段沿主方向前进）、每段经过天体引力圈、两个敌人之间必有安全区、安全区离两侧敌人≥1150 且刷新时避开当前敌人、商店比安全区离路线更远；初始安全区/商店/敌人按路线落位；敌人按路线顺序刷新
+- 地图：隐藏路线不回头（每段沿主方向前进）、每段经过天体引力圈、42% 尝试把天体放进两个敌人之间的空白路径且避开安全区/商店/敌人、两个敌人之间必有安全区、安全区离两侧敌人≥1150 且刷新时避开当前敌人、商店比安全区离路线更远；初始商店/敌人按路线落位；敌人按路线顺序刷新
 - 生成间距：天体压住安全区/商店/敌人时环形搜索重新落点（安全区按 R280+160、敌人按外壳+160）；新天体不会生成在安全区/玩家/路线预置节点上；敌人被天体挤到会沿径向推出表面
 - 入场：视野内导弹从炮塔外壳（R+14）出膛；已发现的敌人在视野外仍为侧向 820px；未发现时走屏幕外偷袭弧线
 - 流式：距原点 120000px 加载区块仍有 ≥3 个天体
@@ -63,7 +65,7 @@ RESULT: 125 checks, 0 failed
 
 ## 2. 导出包验证
 
-> 本次 1.0.4 重新导出并验证了 Linux / Windows / Android 三个包，`dist/` 同步重打，交付物表与 SHA256SUMS 均为本批产物。
+> 本次 1.0.6 重新导出并验证了 Linux / Windows / Android 三个包，`dist/` 同步重打，交付物表与 SHA256SUMS 均为本批产物。
 
 ### 2.1 Linux（验证打包完整性）
 
@@ -74,7 +76,7 @@ xvfb-run -a -s "-screen 0 1280x720x24" \
 
 - 退出码 0；11 张截图全部生成（**由导出包运行产生，不是编辑器**），已复制到 `docs/shots/`。
 - 标题、中文字体、贴图、音频、脚本均从内嵌 PCK 加载；无缺失贴图警告。
-- `build/linux/EscapeGravity.x86_64` = 96,346,880 bytes，ELF x86-64。
+- `build/linux/EscapeGravity.x86_64` = 96,356,688 bytes，ELF x86-64。
 - 触屏 20:9 截图另用 `--resolution 2400x1080 -- --touch --shots=...` 生成，取 `04_battle` 作为 `docs/shots/12_touch.png`。
 
 ### 2.2 Windows
@@ -85,7 +87,7 @@ file build/windows/EscapeGravity.exe
 python3 -c "d=open(...).read(); print(b'GDPC' in d[-4096:])"   # True
 ```
 
-- 单文件、内嵌 PCK，无外部依赖；132,030,928 bytes。
+- 单文件、内嵌 PCK，无外部依赖；132,040,736 bytes。
 - 未做商业代码签名（没有证书），首次运行会有 SmartScreen 提示。
 
 ### 2.3 Android
@@ -96,7 +98,7 @@ apksigner verify --verbose --print-certs build/android/EscapeGravity.apk
 ```
 
 ```
-package: name='com.escapegravity.game' versionCode='6' versionName='1.0.5'
+package: name='com.escapegravity.game' versionCode='7' versionName='1.0.6'
 minSdkVersion:'24'
 targetSdkVersion:'36'
 native-code: 'arm64-v8a'
@@ -109,16 +111,16 @@ Signer #1 certificate DN: CN=Escape Gravity, OU=Games, O=Escape Gravity, L=Shang
 Signer #1 certificate SHA-256: ddd8a610132d862301c8987f18f545a6eefdf58f0617547d7fad3cec0113f5ff
 ```
 
-- APK：49,558,776 bytes；含全部 `assets/`（贴图、字体、WAV、脚本 `.gdc`、场景）。
+- APK：49,566,968 bytes；含全部 `assets/`（贴图、字体、WAV、脚本 `.gdc`、场景）。
 - 权限：无危险权限（只有 Godot/模板默认项）。
 - 未在真机运行（本机无 Android 设备）；静态检查 + 签名验证通过，Linux 导出包已验证同一 PCK 的运行时行为。
 
 ### 2.4 OpenList 分发
 
-- 已上传 `dist/EscapeGravity-1.0.5-android-arm64.apk` 到 NAS 的 `/vol1/1000/MyFiles/Public/`。
-- 远端大小 49,558,776 bytes、SHA-256 `0cc82151…75d1d9`，与本地一致。
-- 直链 HEAD 返回 `200 application/vnd.android.package-archive`，`content-length=49558776`：
-  <https://files.thisisxd.top/d/EscapeGravity-1.0.5-android-arm64.apk>
+- 已上传 `dist/EscapeGravity-1.0.6-android-arm64.apk` 到 NAS 的 `/vol1/1000/MyFiles/Public/`。
+- 远端大小 49,566,968 bytes、SHA-256 `9bf6c6e4…c4ae8a7b`，与本地一致。
+- 直链 HEAD 返回 `200 application/vnd.android.package-archive`，`content-length=49566968`：
+  <https://files.thisisxd.top/d/EscapeGravity-1.0.6-android-arm64.apk>
 
 ---
 
